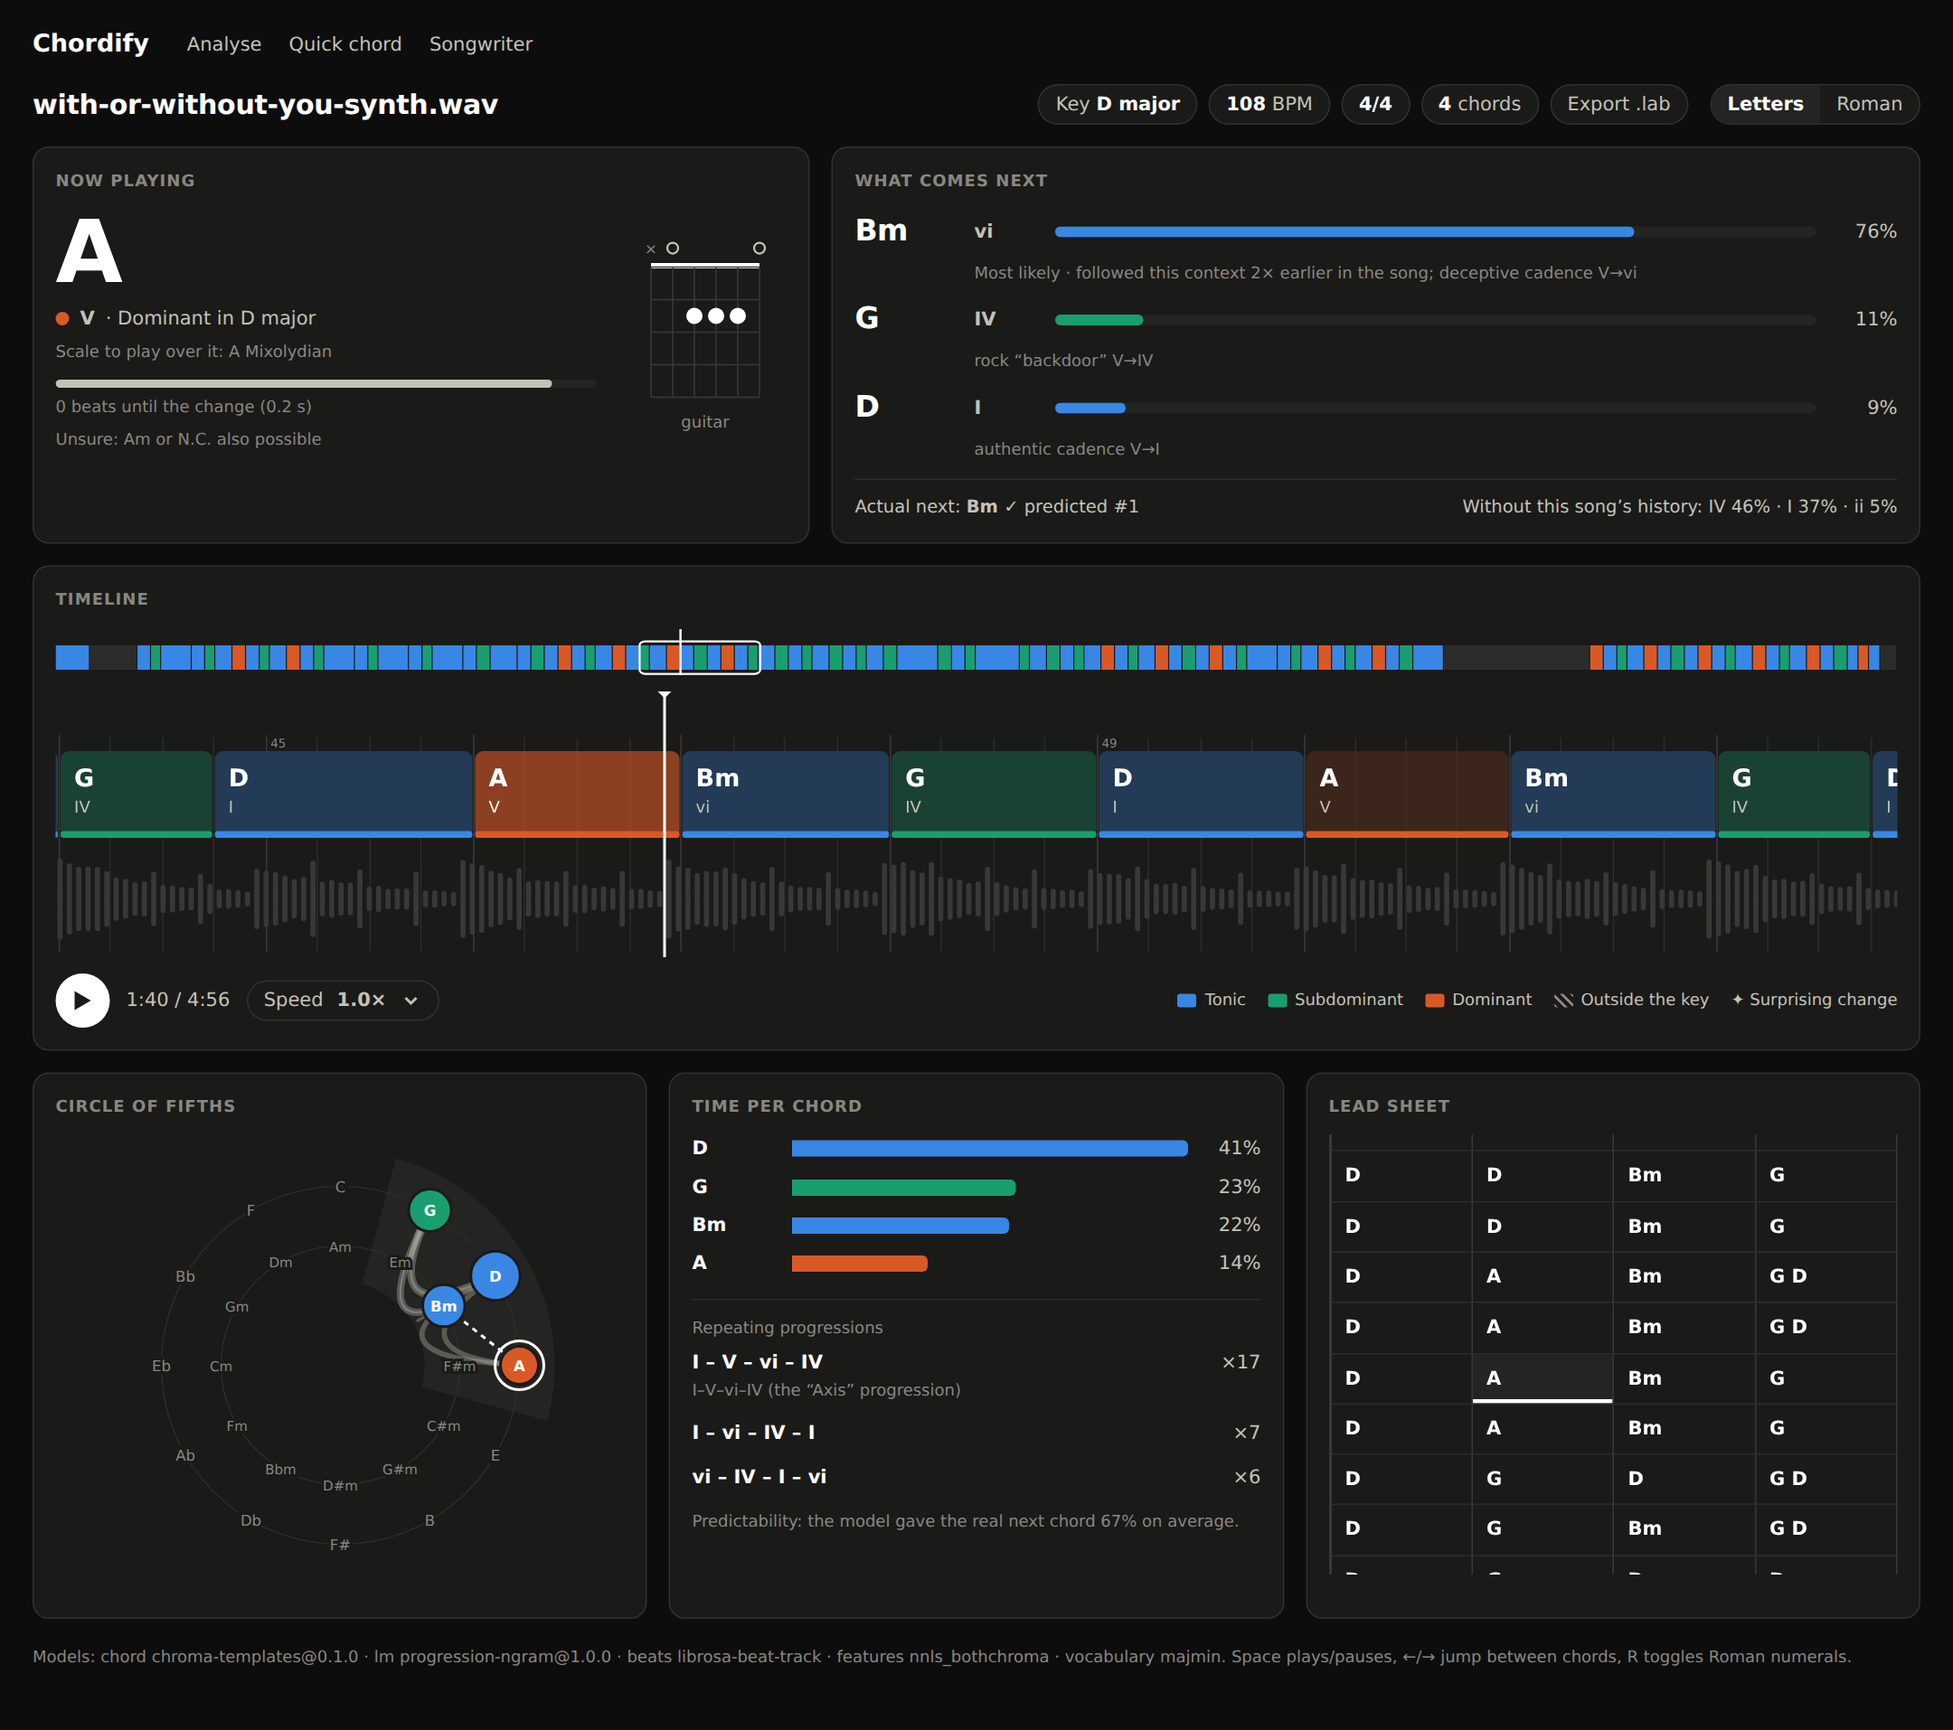
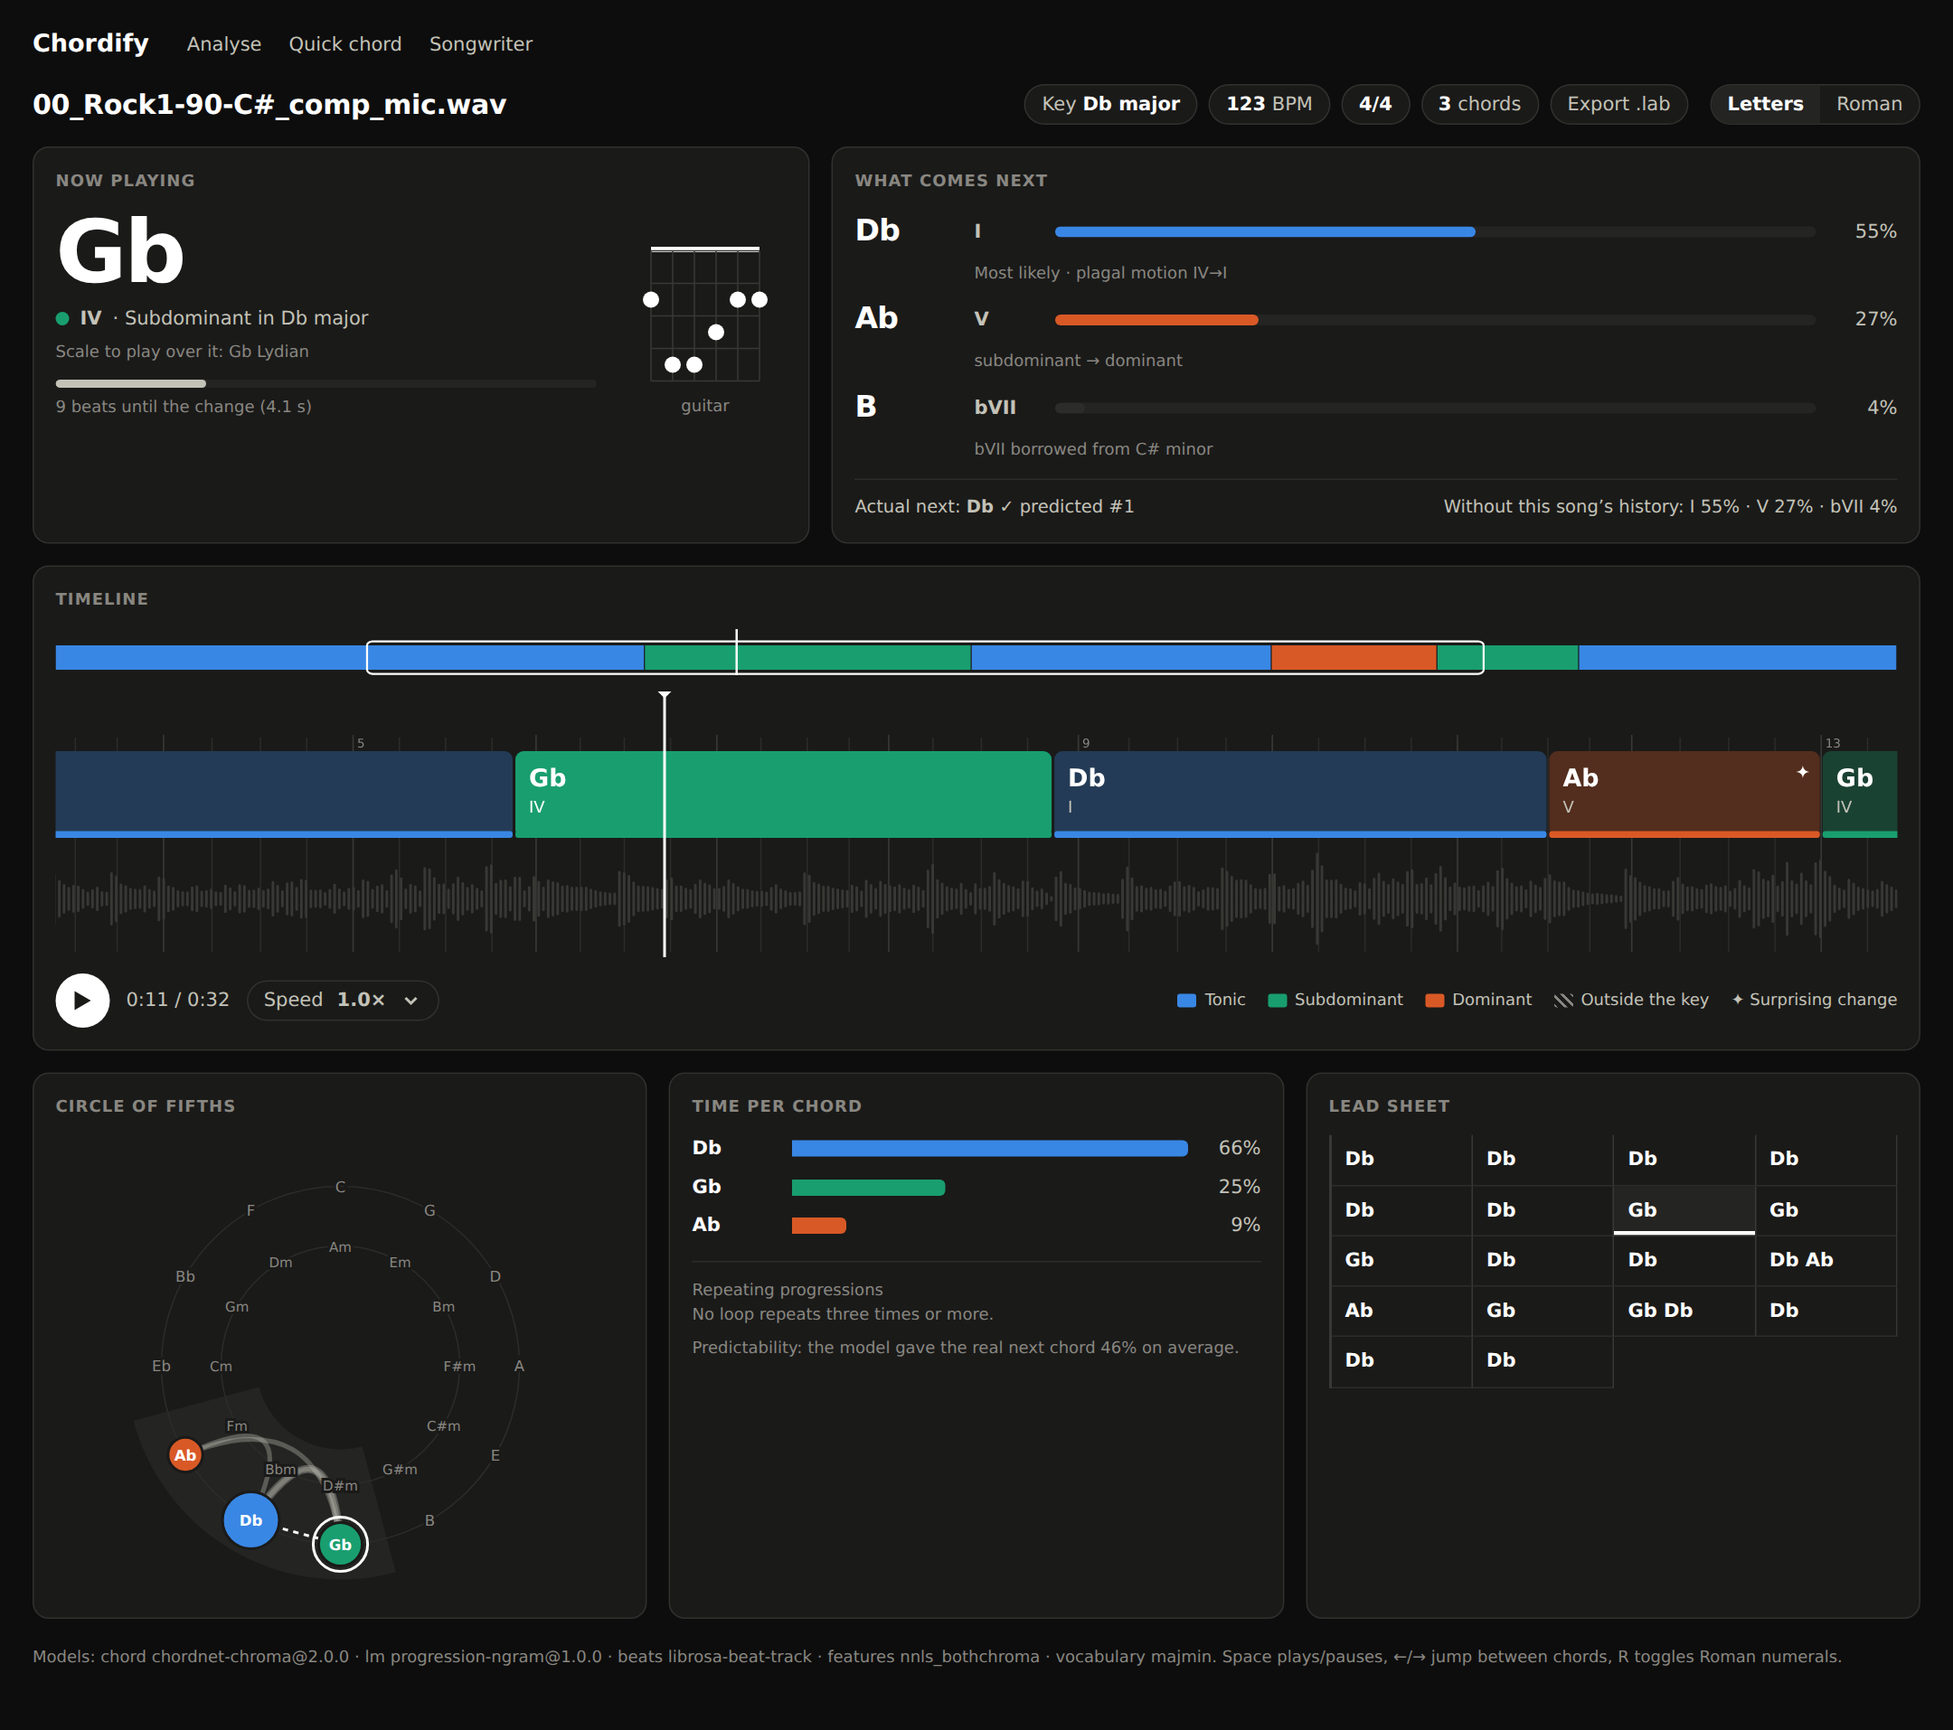
Document ChordNet-Chroma 2.0.0 and its results on real music
Billboard test 80.5 % majmin (templates 71.4 %), GuitarSet recordings
76.1 % (templates 66.5 %) with the biggest gains on jazz, funk and
bossa nova; 7.8 s for a 5-minute song. Screenshots now show a real
GuitarSet recording analysed by the shipped model. The training guide
records the MacBook run as a reference, and the backend README lists
the new "auto" default.

Claude-Session: https://claude.ai/code/session_01SpCmhgrX98sndYrLF3QZNs

diff --git a/docs/chord-progression-plan/08-implementation-status.md b/docs/chord-progression-plan/08-implementation-status.md
@@ -9,17 +9,19 @@ clone: see [§6](#6-running-it).
   <img alt="The analysis screen of the rebuilt web app" src="assets/app-desktop-light.png">
 </picture>
 
-*The built analysis screen (not the mockup). It shows a 4 min 56 s synthetic render
-of a D–A–Bm–G song, analysed by the v2 API with NNLS chroma, the template chord model
-and the n-gram progression model. Key D major, 108 BPM, the loop found as
-"I–V–vi–IV (Axis) ×17", Bm predicted next at 76 %.*
+*The built analysis screen (not the mockup), on a real recording: GuitarSet take
+`00_Rock1-90-C#_comp` (CC BY 4.0), analysed by the v2 API with NNLS chroma,
+`chordnet-chroma@2.0.0` and the n-gram progression model. The chords C#–F#–C#–G#–F#–C#
+come out right, spelled Db–Gb–Db–Ab–Gb–Db in the key the app found (Db major), and the
+next chord is predicted correctly. The tempo is not: 123 BPM for a 90 BPM take, a known
+weakness of the beat tracker ([§4](#4-where-the-build-differs-from-the-plan)).*
 
 ## 1. Status by phase
 
 | Phase | Built in this PR | Still open |
 |---|---|---|
 | **0 · Foundations** | `chordify_core` package. One feature definition shared by training and serving: NNLS at 44.1 kHz/2048, plus a plugin-free CQT chroma. Golden tests. Billboard ingestion. Frozen artist-grouped splits. `mir_eval` harness. Backend hygiene (settings, CORS allow-list, problem+json, no files on disk). Configurable API URL in the web app. CI. | Chordino baseline and honest v1 numbers on the test split. The Chordify-Live recordings. |
-| **1 · Full-song v2** | ChordNet in PyTorch (Conformer and BiGRU, every head), training, ONNX export with a parity check, model bundles. Beat-synchronous Viterbi decoder. API v2 with jobs, SSE, cache and v1 adapter. TypeScript web app with upload, progress, timeline and playback sync. | Training ChordNet on real Billboard features and passing the gates ([§3.4](#34-acoustic-model)). Beat This!. Celery, Postgres and object storage ([§4](#4-where-the-build-differs-from-the-plan)). |
+| **1 · Full-song v2** | ChordNet in PyTorch (Conformer and BiGRU, every head), training, ONNX export with a parity check, model bundles. Beat-synchronous Viterbi decoder. API v2 with jobs, SSE, cache and v1 adapter. TypeScript web app with upload, progress, timeline and playback sync. **`chordnet-chroma@2.0.0` trained on Billboard and served by default** ([§3.4](#34-acoustic-model)). | Beat This! (librosa's tempo can be off, e.g. 123 BPM on a 90 BPM take). Celery, Postgres and object storage ([§4](#4-where-the-build-differs-from-the-plan)). |
 | **2 · Progressions** | Theory engine: Roman numerals, functions, cadences, secondary dominants, borrowed chords, named loops, scale hints. n-gram + song-cache model: `/progressions/next`, predictions, surprise and predictability in every result, and a change matrix in the decoder. Web: Now/Next, circle of fifths, time per chord, repeating progressions, lead sheet, Roman/Letters, Songwriter. Corrections endpoint. | The ProgressionLM Transformer (Chordonomicon). Local keys and modulations. `sevenths` in serving. Practice mode. Corrections UI. |
 | **3–5** | Nothing yet beyond what they reuse: vocabulary tiers up to 169 classes, the `log_cqt` feature spec, the AudioWorklet recorder. | All. |
 
@@ -96,11 +98,20 @@ majmin WCSR on real music:
 |---|---|---|---|---|
 | templates 0.1.0 (decoder untuned) | 61.1 % | 68.2 % | 65.1 % | 50.0 % |
 | templates 0.2.0 (decoder tuned on validation), **served today** | 66.4 % | 71.4 % | 66.5 % | 56.0 % |
-| ChordNet Conformer, first run stopped after 4 of up to 30 epochs (trainer's untuned decoder) | 75.6 % | not scored | not scored | — |
+| **`chordnet-chroma@2.0.0`** (decoder tuned on validation), **served by default** | **81.4 %** | **80.5 %** | **76.1 %** | — |
 
-After 4 epochs ChordNet is already 9 points above the tuned templates on the validation songs. The full run moves to a team laptop ([`chordify_ai/TRAINING.md`](../../chordify_ai/TRAINING.md)). The test split gets scored once, after the decoder has been tuned on validation.
+ChordNet-Chroma 2.0.0 is a 3.6 M-parameter Conformer trained on the 711 Billboard training songs. It was trained on a MacBook with an M5 Pro through the Apple GPU, at 42 s per epoch; early stopping ended the run at epoch 17 and kept epoch 11 ([`chordify_ai/TRAINING.md`](../../chordify_ai/TRAINING.md)). The decoder was then tuned on validation and the test split scored once. On Billboard test, root accuracy is 83.7 %, sevenths 61.6 % (the `majmin` vocabulary maps G:7 to G) and segmentation 0.80, which is the phase 1 `seg` target. The server picks the model by itself where the NNLS plugin works (`CHORDIFY_CHORD_MODEL=auto`) and falls back to the templates elsewhere.
 
-By style on GuitarSet (templates 0.2.0, NNLS): singer-songwriter 89 %, rock 85 %, bossa nova 59 %, jazz 46 %, funk 44 %. Quiet, jazzy comping is where a trained model has to earn its keep.
+GuitarSet by style (majmin, NNLS):
+
+| | singer-songwriter | rock | bossa nova | jazz | funk |
+|---|---|---|---|---|---|
+| templates 0.2.0 | 88.5 % | 85.0 % | 58.7 % | 45.8 % | 44.2 % |
+| ChordNet 2.0.0 | 90.5 % | 86.3 % | 71.9 % | 66.2 % | 59.7 % |
+
+On this real audio the model gains the most exactly where the templates struggled: quiet, jazzy comping. The recordings go through our own NNLS extraction, not McGill's CSVs, so this also confirms that serving produces the features the model was trained on.
+
+One caveat seen while checking the demo song. On a chord with no third (A–D–E–G, an A7sus4), the templates and ChordNet disagree about major versus minor. The audio can't settle that, and `majmin` scoring leaves such chords out.
 
 **Synthetic renders** of the validation annotations (25 songs, first 90 s, each render with its own timbre and tuning within ±30 cents), measured with the 0.1.0 template settings:
 
@@ -116,15 +127,16 @@ This benchmark found one real bug. The CQT chroma kept a bin a third of a semito
 
 ### 3.5 Latency
 
-Full analysis of the 296 s song in the screenshot on a 4-vCPU container, warm, two runs each. Every stage is included: decode, beats, features, model, both decoder passes, key, theory, predictions.
+Full analysis of a 296 s synthetic song on a 4-vCPU container, warm, two runs each. Every stage is included: decode, beats, features, model, both decoder passes, key, theory, predictions.
 
 | Chord model | Features | Time |
 |---|---|---|
 | templates | NNLS | 5.4–5.8 s |
 | templates | CQT | 3.2–3.4 s |
-| ChordNet Conformer (ONNX Runtime) | CQT | 3.6–4.1 s |
+| ChordNet Conformer, synthetic-trained (ONNX Runtime) | CQT | 3.6–4.1 s |
+| **`chordnet-chroma@2.0.0`** (ONNX Runtime), served by default | NNLS | 7.8 s |
 
-The phase 1 budget is p95 ≤ 20 s for a 4-minute song. Switching features from CQT to NNLS costs about 2 s; switching the model from templates to ChordNet costs about 0.5 s.
+The phase 1 budget is p95 ≤ 20 s for a 4-minute song. Switching features from CQT to NNLS costs about 2 s. ChordNet with half-beat decoding units costs 2–3 s more than the templates.
 
 ## 4. Where the build differs from the plan
 
@@ -134,13 +146,13 @@ The phase 1 budget is p95 ≤ 20 s for a 4-minute song. Switching features from 
 | `models/registry.yaml` | One `bundle.json` per model (id, feature spec, vocabulary, file hashes, metrics, decoder parameters), selected by `CHORDIFY_CHORD_MODEL` / `CHORDIFY_LM_MODEL` | Same information without a second file to keep in sync | There are several deployments with different active models |
 | DVC-tracked data, MLflow, Lightning | Frozen split JSON in git. ChoCo loaded directly with a local JSON cache. A plain PyTorch loop that writes `history.json`, `best.pt` and the bundle. | Nothing to host. The split and the n-gram bundle carry hashes. | More than one person trains models |
 | Beat This! beat tracker | `librosa.beat.beat_track` (downbeat phase from chord-change alignment) | Already a dependency and fast. Beat This! adds a PyTorch model to serving. | Beat accuracy is measured on real audio |
-| Key HMM with local keys | Global key from the decoded chords (duration-weighted Krumhansl–Kessler), then a second decoder pass with the key-relative LM | Enough for Roman numerals and predictions. ChordNet's key heads are trained but not used by the templates. | ChordNet serves (use its key heads), or modulations matter in the UI |
+| Key HMM with local keys | Global key from the decoded chords (duration-weighted Krumhansl–Kessler), then a second decoder pass with the key-relative LM | Enough for Roman numerals and predictions. ChordNet's key heads are trained, but serving does not read them yet. | Modulations matter in the UI (the key heads are ready) |
 | ProgressionLM distilled into the decoder | The n-gram's key-relative change matrix, blended 50/50 with uniform | Same interface (`lm.change_matrix`), so the Transformer can drop in | ProgressionLM exists |
 | TanStack Query + Zustand | Plain hooks. One `PlaybackClock` read through `useSyncExternalStore`, so only the components whose chord or bar changed re-render. | Two fewer dependencies for one page of server state | The app grows more pages with shared server state |
 
 ## 5. Next steps, in order
 
-1. **Train ChordNet on the full Billboard set.** Follow [`chordify_ai/TRAINING.md`](../../chordify_ai/TRAINING.md): setup, one-command download, training on an Apple-silicon Mac (GPU), Linux or NVIDIA, then decoder tuning on validation and a single test score. Ship the bundle only if it beats the templates' 71.4 % on the test songs; the server then picks it up by itself (`CHORDIFY_CHORD_MODEL=auto`). Then run `chordify_ai.eval.guitarset` for the real-audio check.
+1. **Improve ChordNet.** 2.0.0 ships (Billboard test 80.5 %, GuitarSet 76.1 %). Next: train the `sevenths` vocabulary (`--vocabulary sevenths`) so G7 is no longer reported as G, and read the key heads for local keys. Every retrain follows [`chordify_ai/TRAINING.md`](../../chordify_ai/TRAINING.md) and must beat the shipped bundle on the test songs and on GuitarSet.
 2. **Baselines for the gate.** Chordino (`nnls-chroma:chordino`, built by `tools/install_nnls_chroma.sh`) takes audio, and Billboard ships only features. So on Billboard the like-for-like baseline is the template model through the same decoder (`evaluate_model --model templates --chroma …`, [§3.4](#34-acoustic-model)); Chordino proper runs on GuitarSet and the Chordify-Live audio from step 3.
 3. **Chordify-Live.** Record and label the phone/guitar test set ([02 §5](02-datasets.md)): the only in-domain measure for the Quick chord screen.
 4. **ProgressionLM.** Ingest Chordonomicon + ChoCo symbolic, train the Transformer, and gate it against [§3.3](#33-progression-model-the-gate-progressionlm-has-to-beat).

diff --git a/docs/chord-progression-plan/README.md b/docs/chord-progression-plan/README.md
@@ -8,7 +8,7 @@ Today Chordify recognises **one chord per clip**. This plan takes it to:
 
 It covers the datasets (including an assessment of the Billboard dataset v1 was trained on), the model architecture, the software architecture and the communication between the web/Android clients, the backend and the models.
 
-> **Status:** phases 0–2 are largely built (core library, ChordNet training stack, v2 API, new web app). On real Billboard songs the served template model scores 66.4 % (validation) / 71.4 % (test); a first ChordNet run reached 75.6 % on validation after 4 epochs, and the full run is documented in [`chordify_ai/TRAINING.md`](../../chordify_ai/TRAINING.md). See [08 · Implementation status](08-implementation-status.md).
+> **Status:** phases 0–2 are largely built (core library, ChordNet training stack, v2 API, new web app). The trained chord model, `chordnet-chroma@2.0.0`, is served by default. It names the right chord for **80.5 %** of the time of held-out Billboard songs (templates: 71.4 %) and 76.1 % on real guitar recordings (GuitarSet; templates: 66.5 %). Retraining is documented in [`chordify_ai/TRAINING.md`](../../chordify_ai/TRAINING.md). See [08 · Implementation status](08-implementation-status.md).
 
 ## Documents
 

diff --git a/chordify_ai/TRAINING.md b/chordify_ai/TRAINING.md
@@ -64,9 +64,12 @@ epoch   4  chord loss 1.497  boundary 0.772  val majmin 75.6  seg 71.0  (406.2 s
 ```
 
 `val majmin` is the share of the validation songs' time labelled with the right chord.
-For reference, a cloud run on 3 CPU cores (about 7 minutes per epoch) reached
-67.4, 73.9, 74.6 and 75.6 % in epochs 1–4 before it was stopped. The template model the
-app uses today scores 66.4 % on the same songs.
+The template model scores 66.4 % on the same songs.
+
+Reference run (`chordnet-chroma@2.0.0`, MacBook with an M5 Pro, Apple GPU): 42 s per
+epoch, 68.4 % after epoch 1, best 79.5 % at epoch 11, early stop at epoch 17, about
+12 minutes in all. After step 5: 81.4 % on validation; step 6: 80.5 % on test. The same
+run on 3 cloud CPU cores took about 7 minutes per epoch.
 
 Training runs up to 30 epochs and stops early once 6 epochs pass without improvement.
 Multiply the seconds of your first epoch by about 20 for a rough total. Pressing Ctrl-C

diff --git a/chordify_backend/README.md b/chordify_backend/README.md
@@ -23,7 +23,7 @@ uses the plugin-free CQT chroma at the same frame rate.
 | Variable | Default | Meaning |
 |---|---|---|
 | `CHORDIFY_ALLOWED_ORIGINS` | `["http://localhost:5173","http://127.0.0.1:5173"]` | CORS allow-list (JSON list) |
-| `CHORDIFY_CHORD_MODEL` | `templates` | `templates` (training-free baseline) or a ChordNet bundle directory |
+| `CHORDIFY_CHORD_MODEL` | `auto` | `auto`: the shipped `models/chordnet-chroma/2.0.0` where the NNLS plugin works, else the templates; or `templates`, or a bundle directory |
 | `CHORDIFY_LM_MODEL` | `models/progression-ngram/1.0.0` | Progression model bundle |
 | `CHORDIFY_MAX_UPLOAD_MB` / `CHORDIFY_MAX_DURATION_S` | `50` / `900` | Upload limits |
 | `CHORDIFY_WORKERS` | `2` | Concurrent analyses |
